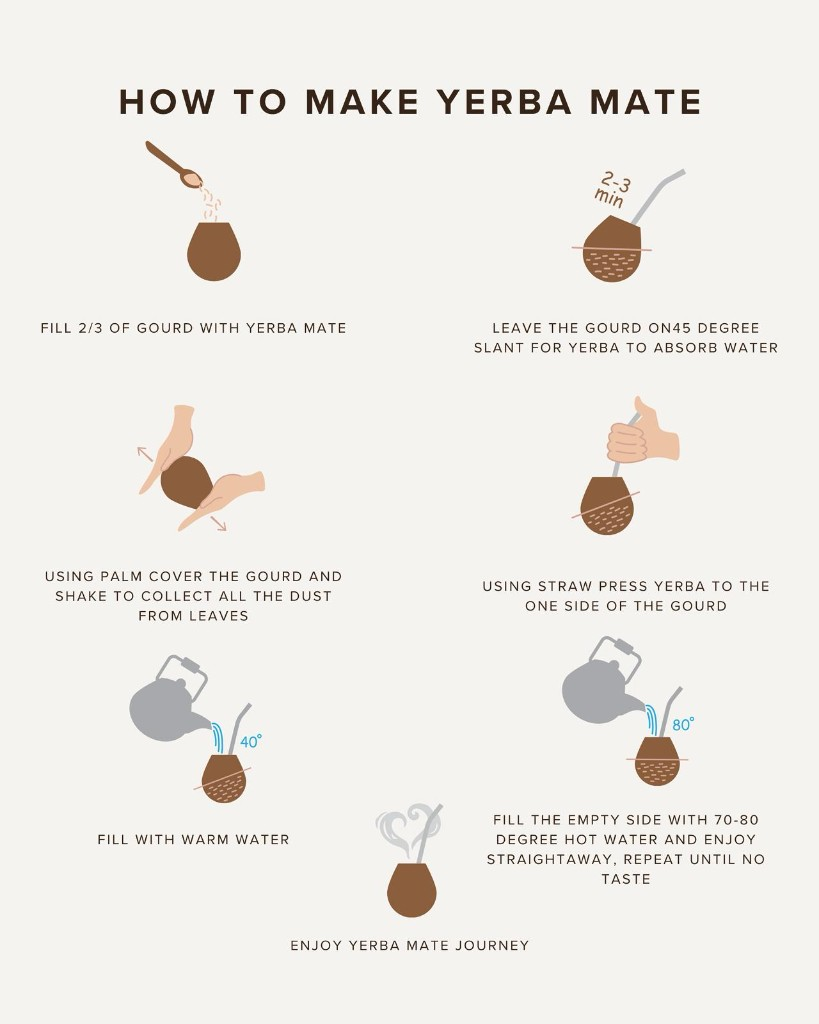
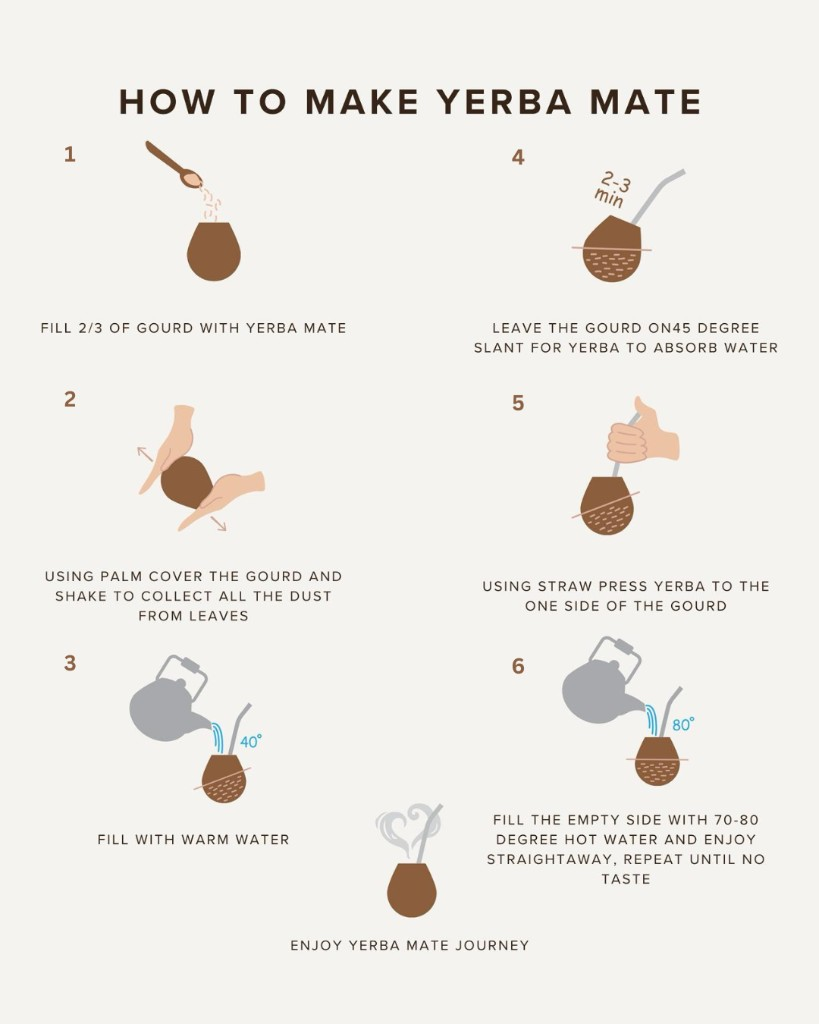
Update mate guide images and step layout
Made-with: Cursor

diff --git a/frontend/app/components/landing/MateGuideSection.tsx b/frontend/app/components/landing/MateGuideSection.tsx
@@ -19,34 +19,19 @@ export function MateGuideSection({ locale }: Props) {
   const steps = isLv
     ? [
         { n: 1, text: "Pieber 2/3 trauka ar yerba mate tēju." },
-        {
-          n: 2,
-          text: "Izmantojot plaukstu, sakrata tēju lai smalkākās lapas nonāk augšpusē.",
-        },
+        { n: 2, text: "Izmantojot plaukstu, sakrata tēju, lai smalkākās lapas nonāk augšpusē." },
         { n: 3, text: "Aplej ar silto ūdeni." },
-        {
-          n: 4,
-          text: "Atstāj tēju slīpumā uz 2–3 minūtēm, sacietēti.",
-        },
+        { n: 4, text: "Atstāj tēju slīpumā uz 2–3 minūtēm, sacietēti." },
         { n: 5, text: "Izmantojot salmiņu, sapresē tēju vienā sānā." },
-        {
-          n: 6,
-          text: "Aplej ar 70–80 grādu siltu ūdeni un uzreiz baudi, atkārto kamēr ir jūtama garša.",
-        },
+        { n: 6, text: "Aplej ar 70–80 grādu siltu ūdeni un uzreiz baudi. Atkārto, kamēr ir jūtama garša." },
       ]
     : [
         { n: 1, text: "Fill 2/3 of gourd with yerba mate." },
-        {
-          n: 2,
-          text: "Using palm cover the gourd and shake to collect all the dust from leaves.",
-        },
+        { n: 2, text: "Using palm cover the gourd and shake to collect all the dust from leaves." },
         { n: 3, text: "Fill with warm water." },
         { n: 4, text: "Leave the gourd on 45 degree slant for yerba to absorb water." },
         { n: 5, text: "Using straw press yerba to the one side of the gourd." },
-        {
-          n: 6,
-          text: "Fill the empty side with 70–80 degree hot water and enjoy straightaway, repeat until no taste.",
-        },
+        { n: 6, text: "Fill the empty side with 70-80 degree hot water and enjoy straightaway. Repeat until no taste." },
       ];
 
   const desktopRenderOrder = [1, 4, 2, 5, 3, 6];
@@ -80,9 +65,9 @@ export function MateGuideSection({ locale }: Props) {
               if (!step) return null;
               return (
                 <li key={n}>
-                  <div className="flex flex-col gap-3">
+                  <div className="flex max-w-[22rem] flex-col gap-4">
                     <span className="text-sm font-semibold text-[#b08d59]">{step.n}</span>
-                    <span className="leading-relaxed">{step.text}</span>
+                    <span className="leading-8">{step.text}</span>
                   </div>
                 </li>
               );
